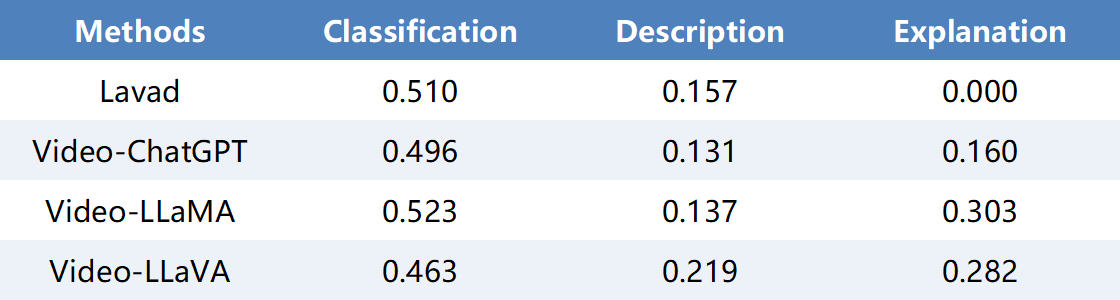
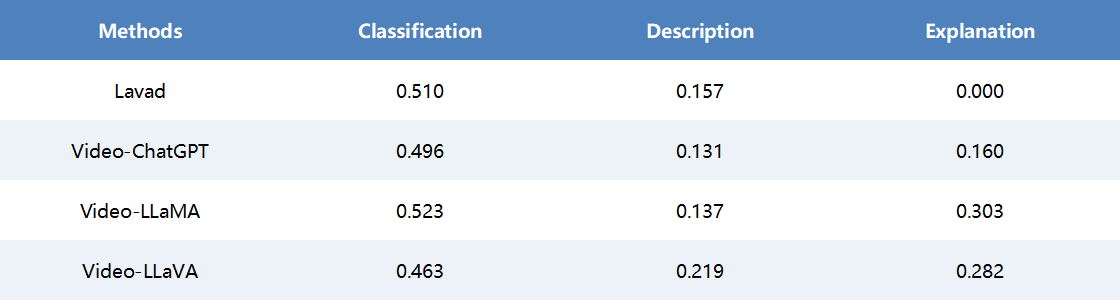
fixed

diff --git a/src/components/header.jsx b/src/components/header.jsx
@@ -22,10 +22,10 @@ class ResourceBtn extends React.Component {
     };
     this.icons = {
       paper: FaFilePdf,
-      arxiv: SiArxiv,
+      paper: SiArxiv,
       code: FaGithub,
       video: FaYoutube,
-      huggingface: HuggingFace,
+      dataset: HuggingFace,
       demo: GoogleColab,
     };
     this.handleResize = this.handleResize.bind(this);
@@ -46,7 +46,7 @@ class ResourceBtn extends React.Component {
     const sClass = 'uk-margin-small-left uk-margin-small-right uk-text-bold';
     const FaIcon = this.icons[this.props.title];
     const iTitle =
-      this.props.title == 'huggingface' && this.state.isMobile
+      this.props.title == 'dataset' && this.state.isMobile
         ? ' hf '
         : this.props.title;
     return (
@@ -77,7 +77,7 @@ export default class Header extends React.Component {
               <p className={titleClass}>{this.props.title}</p>
             </div>
             <div className="uk-text-center uk-text-large">
-              <p>{this.props.article}</p>
+              <p style={{fontSize: '1.2em'}}>{this.props.article}</p>
               <span className="uk-label uk-label-primary uk-text-center uk-margin-small-bottom">
                 {this.props.journal}
               </span>

diff --git a/src/components/authors.jsx b/src/components/authors.jsx
@@ -7,15 +7,18 @@ export default class Authors extends React.Component {
   }
 
   render() {
-    const columnMaxLen =
-      this.props.authors.length > 4 ? 3 : this.props.authors.length;
-    const authorClass = `uk-width-1-${columnMaxLen} uk-width-1-${this.props.authors.length}@m`;
+    const columnMaxLen = this.props.authors.length;
+      // this.props.authors.length > 4 ? 3 : this.props.authors.length;
+    // const authorClass = `uk-width-1-${columnMaxLen} uk-width-1-${this.props.authors.length}@m`;
+    
+    const authorClass = `uk-width-1-${columnMaxLen}`;
     const affiliationClass = `uk-width-1-${this.props.affiliations.length} uk-margin-small-top`;
     return (
       <div>
         <div
-          className="uk-text-primary uk-text-center uk-flex-center uk-grid-collapse"
+          className="uk-text-primary uk-text-center uk-grid-collapse"
           data-uk-grid
+          style={{ "--uk-grid-columns": columnMaxLen, flexWrap: "nowrap", width: "100%", fontSize: '0.9em'}}
         >
           {this.props.authors.map((author, idx) => {
             return (
